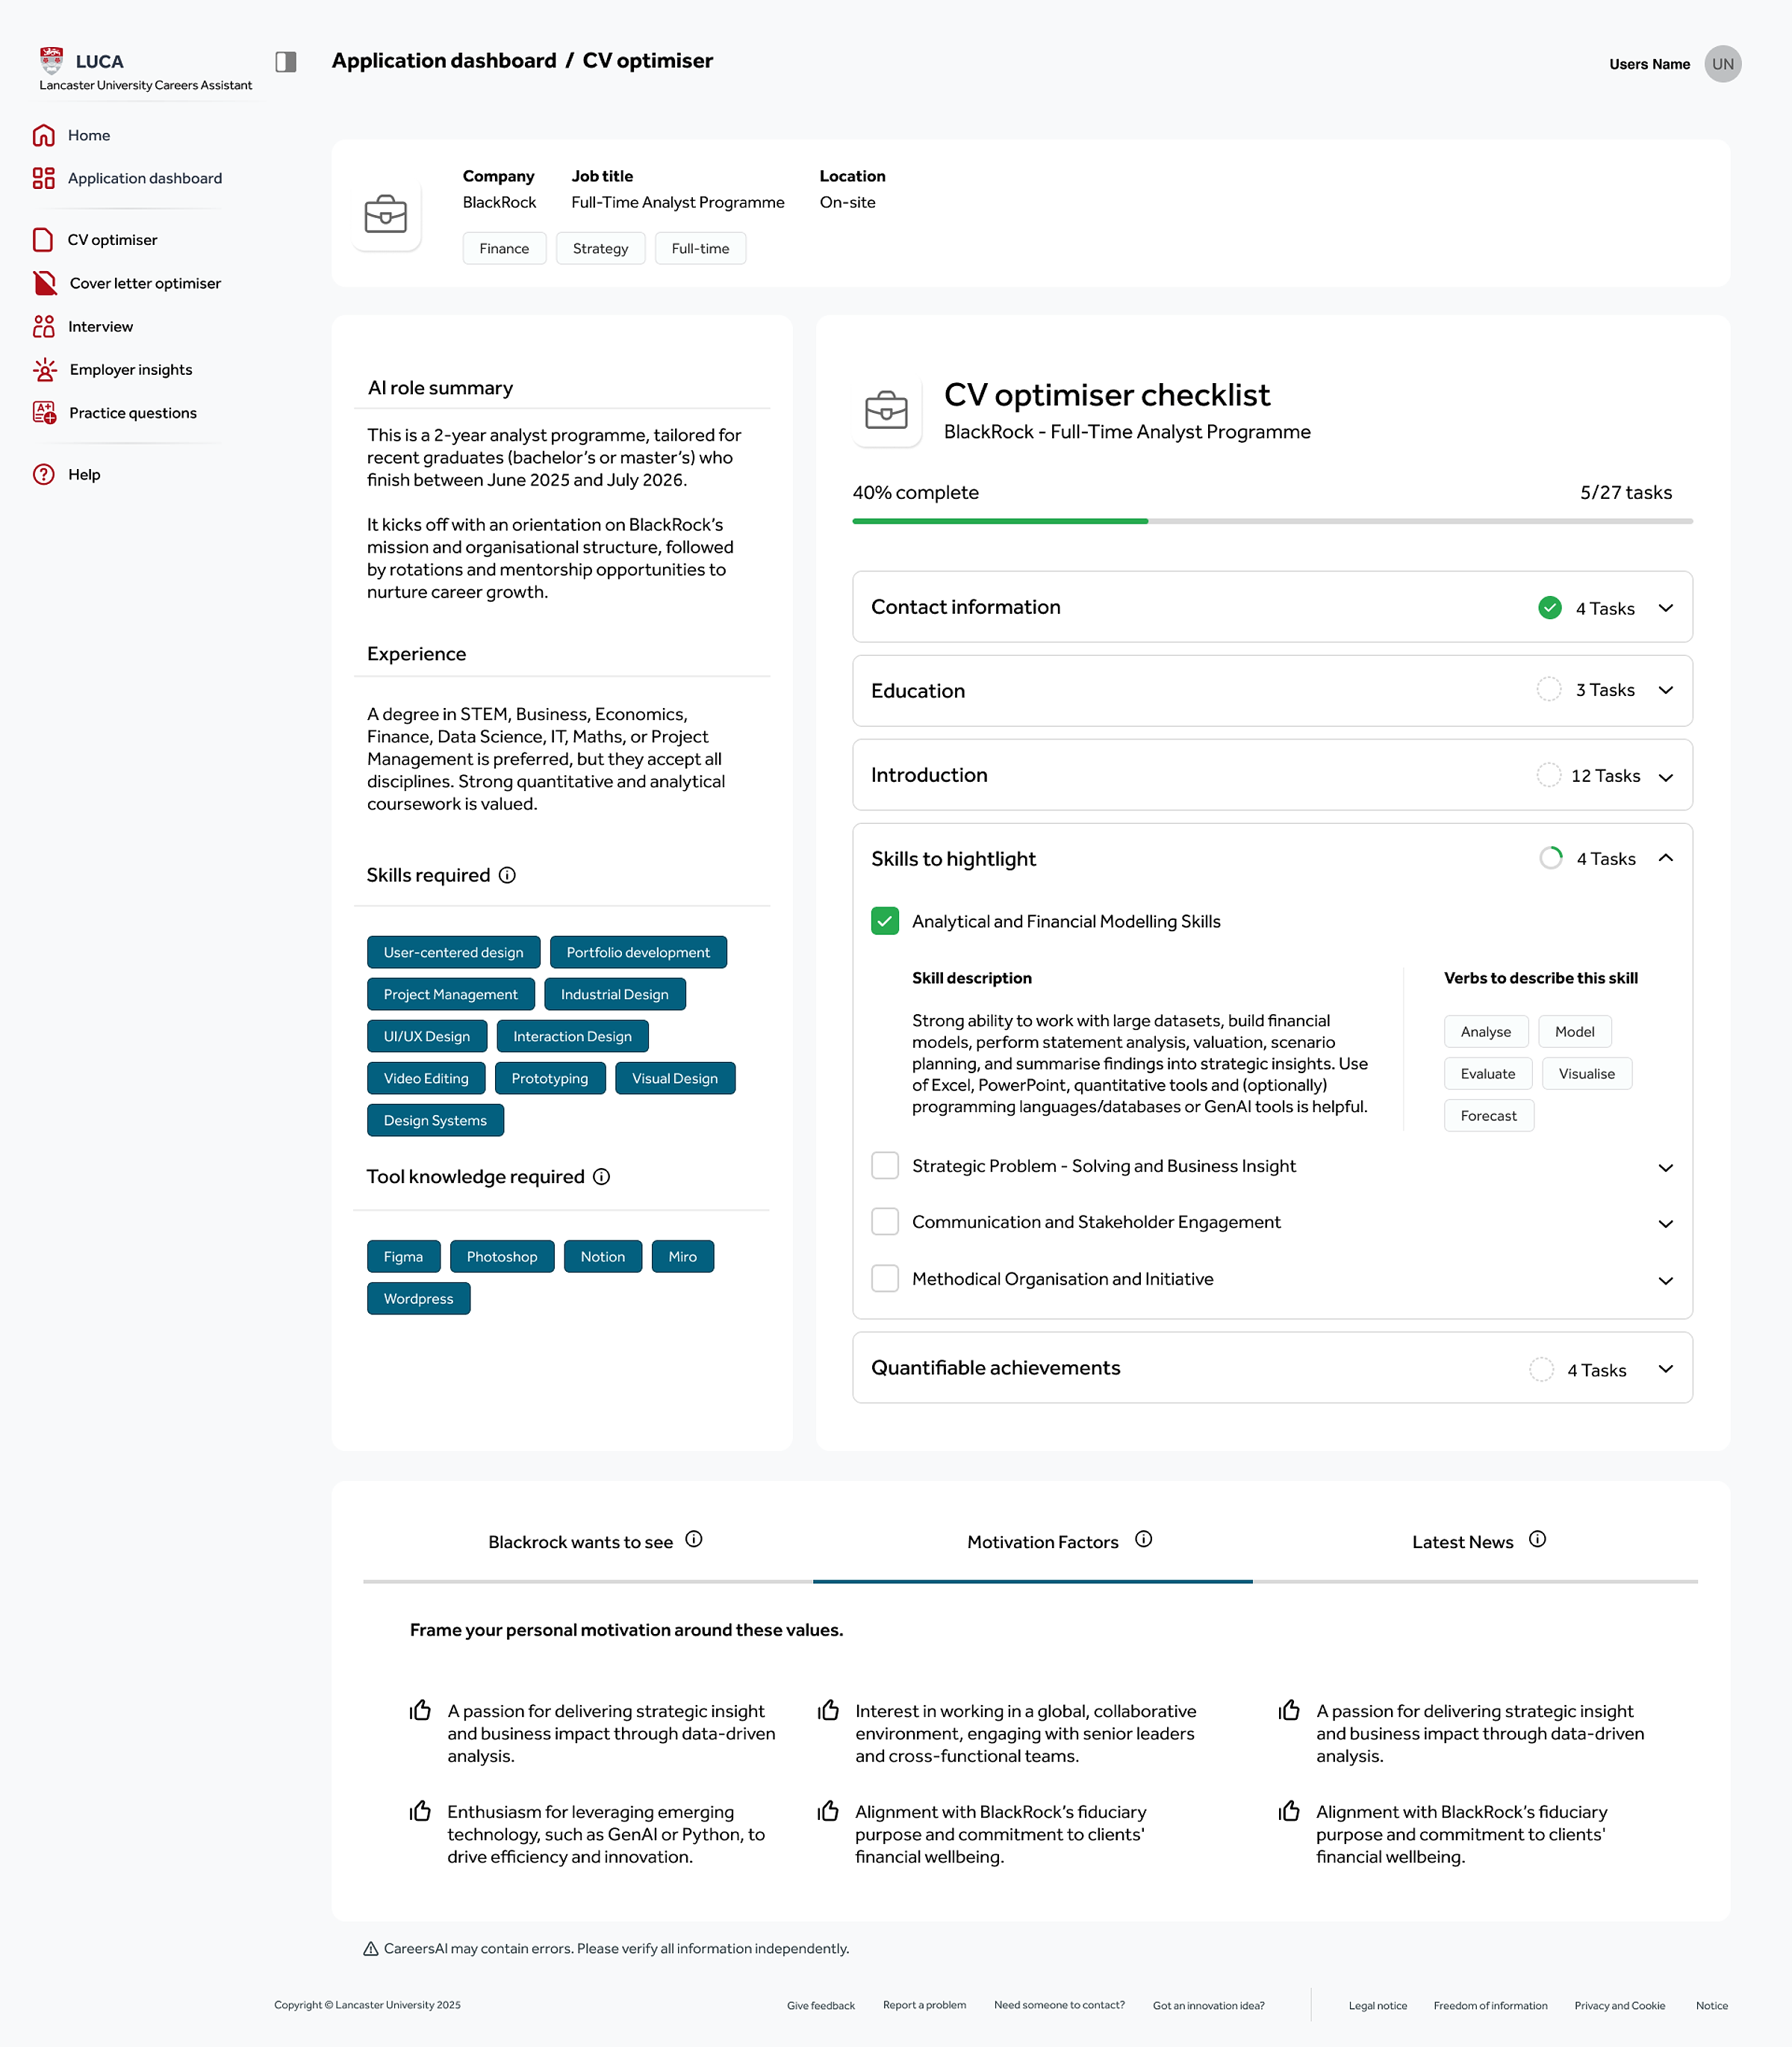
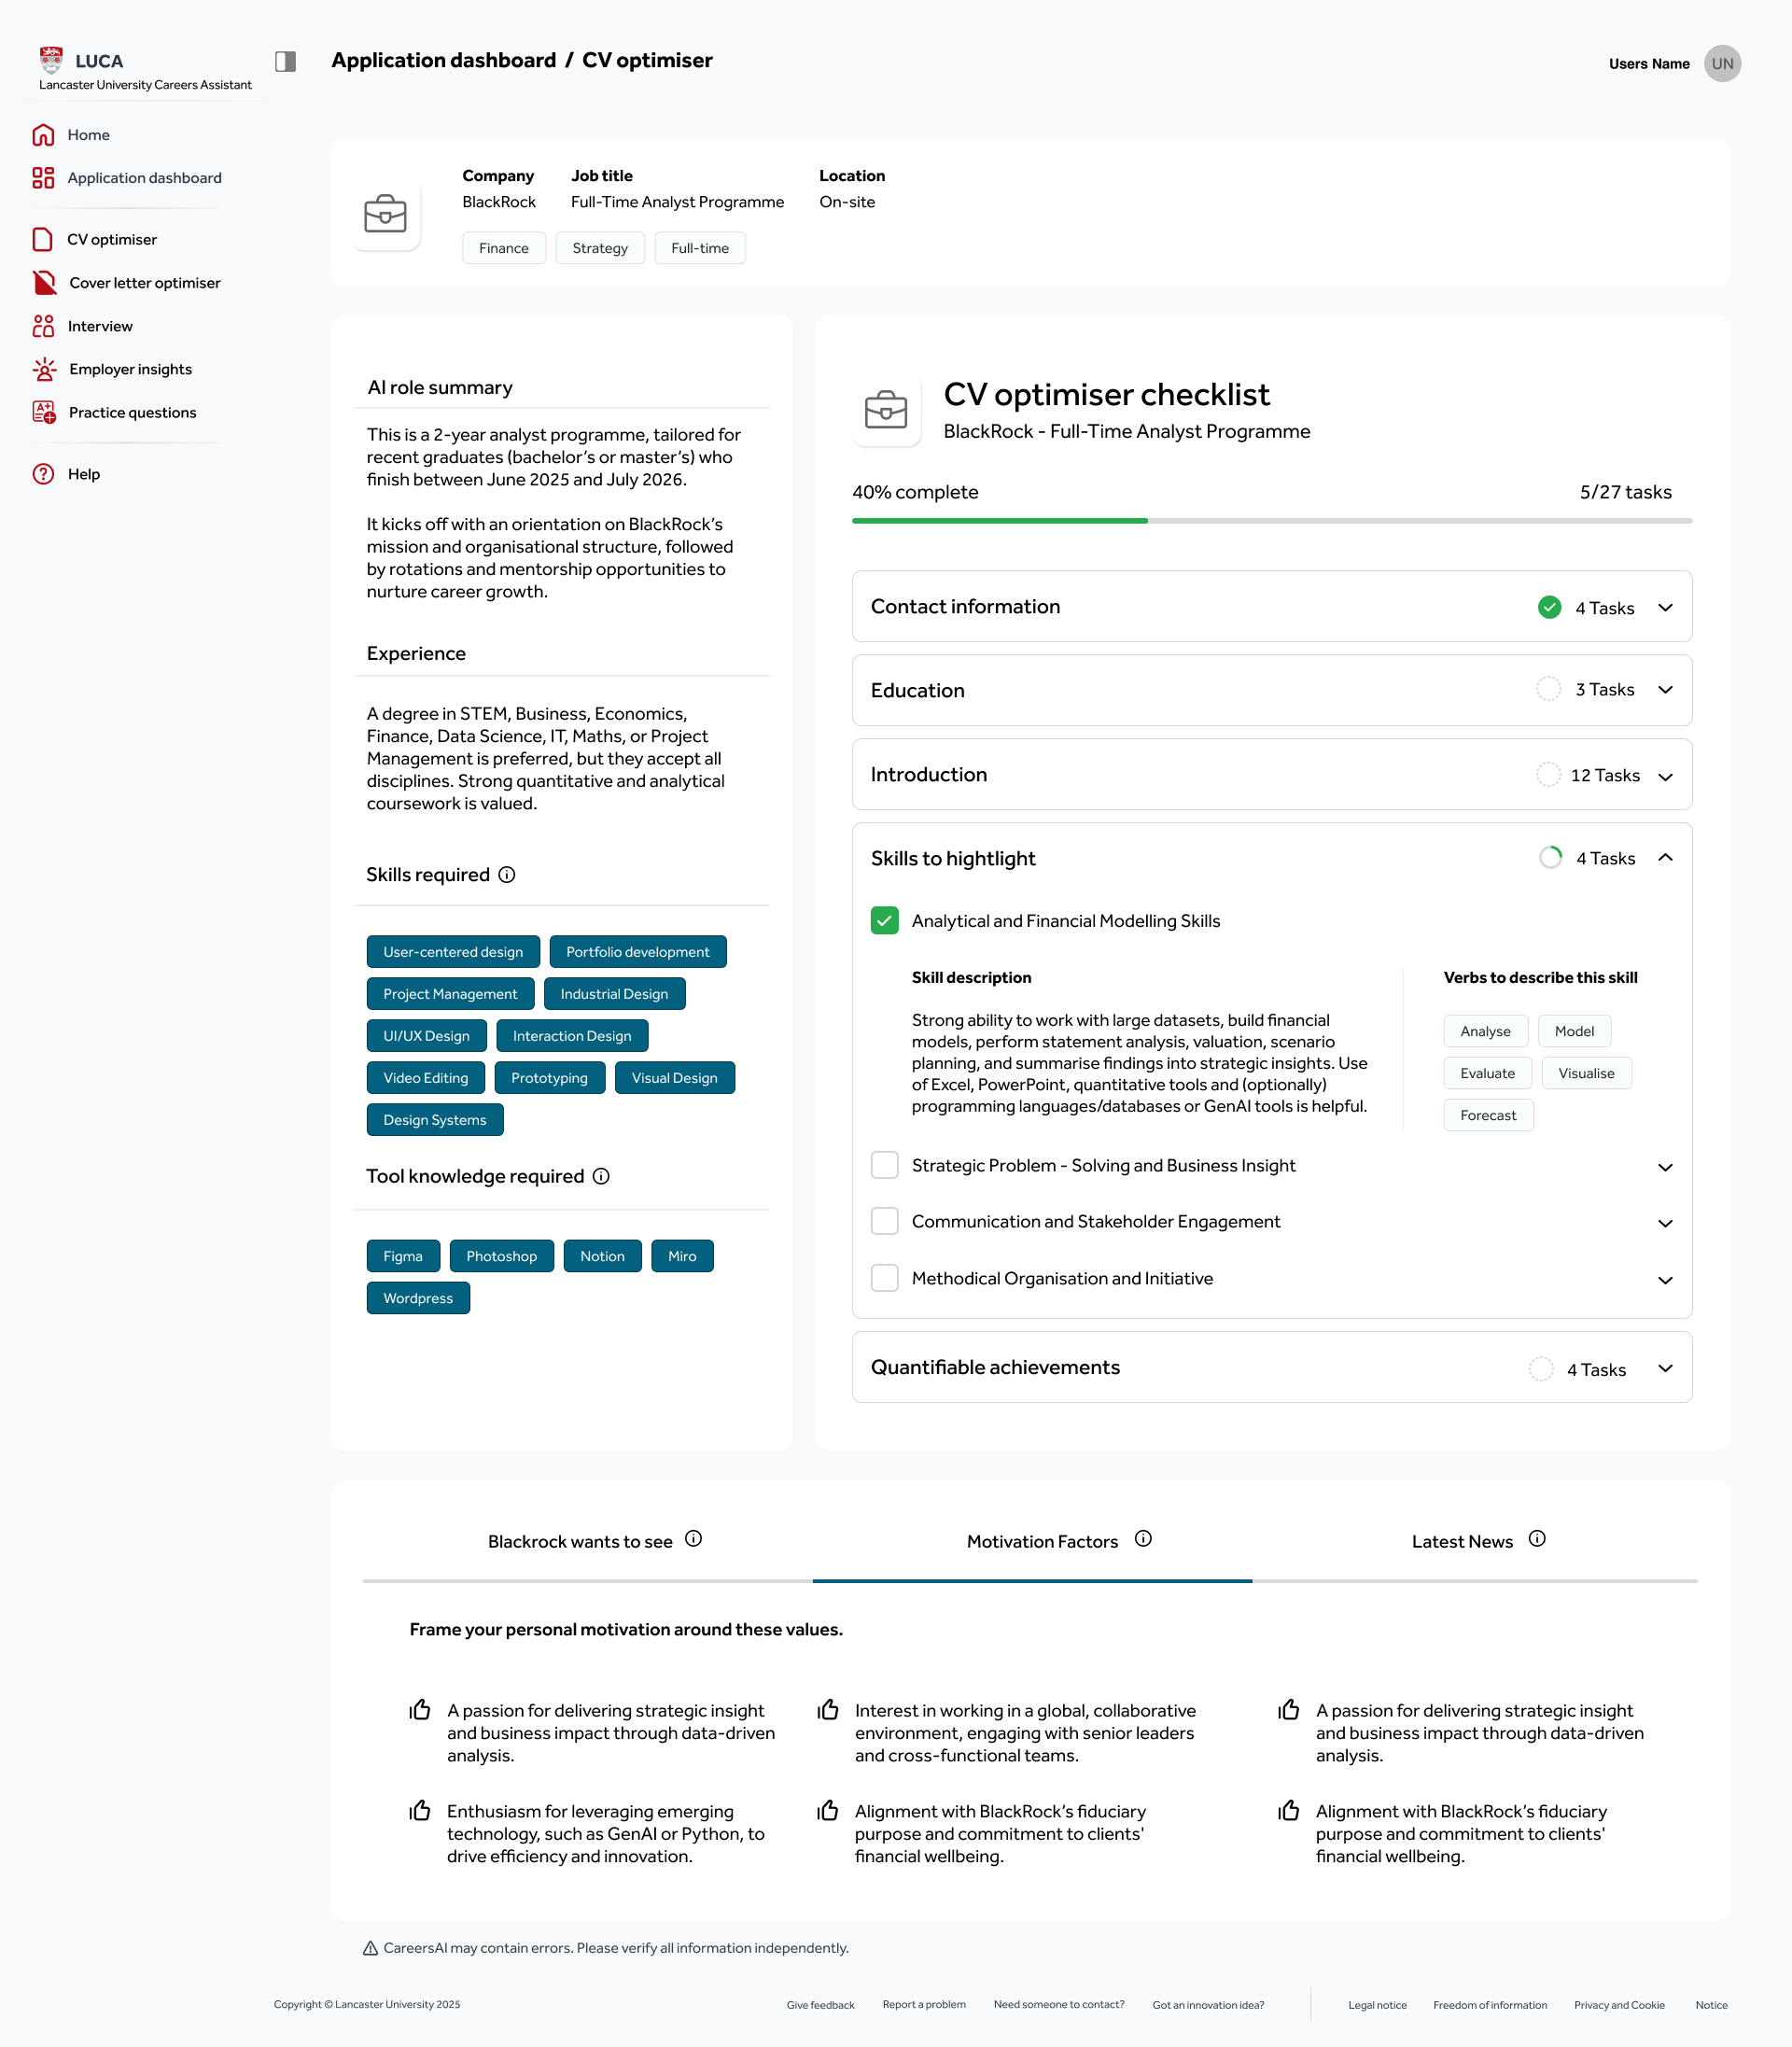
LUCA: replace AssetPlaceholders with real source screenshots
Replaced two AssetPlaceholder placeholders with actual SlideFigure images from FOLIO assets. Before/After now shows dashboard, iteration section now shows CV optimiser. Copied 9 source images to public assets.

diff --git a/app/work/luca/page.jsx b/app/work/luca/page.jsx
@@ -2,7 +2,7 @@
 
 import { motion } from 'framer-motion';
 import CaseStudyShell from '@/components/CaseStudyShell';
-import { Section, Prose, SubList, PullQuote, MetricCard, MetricGrid, HandNote, AssetPlaceholder } from '@/components/CaseBits';
+import { Section, Prose, SubList, PullQuote, MetricCard, MetricGrid, HandNote } from '@/components/CaseBits';
 import SlideFigure from '@/components/SlideFigure';
 import BrowserFrame from '@/components/BrowserFrame';
 
@@ -36,7 +36,11 @@ export default function LucaPage() {
           <Prose>
             I was the sole product designer on a cross-functional team building LUCA, an AI careers platform for Lancaster University. The human careers service was chronically oversubscribed, and the university’s existing tool, Smart Statement, only tailored CVs and cover letters. Students had quietly abandoned it because ChatGPT did more, and many were outsourcing entire applications to it.
           </Prose>
-          <AssetPlaceholder label="Before/After — Smart Statement's output generation vs LUCA's coaching flow" />
+          <SlideFigure
+            src="/assets/luca/dashboard-existing.png"
+            alt="LUCA's main dashboard for existing users"
+            caption="LUCA's coach-not-writer interface — every feature draws from the uploaded job description."
+          />
         </Section>
 
         <Section title="The careers problem surfaced in workshops that were never about careers" tone="sunken">
@@ -91,7 +95,11 @@ export default function LucaPage() {
           <Prose>
             We started with six functional areas and nineteen features, then pruned across five to six iteration rounds with students and careers staff in the loop. I would pitch a feature verbally, turn it into a quick prototype with AI tools like Google Stitch, and watch people use it. I used AI the same way LUCA uses it with students, as an assistant that accelerates, never a replacement that generates.
           </Prose>
-          <AssetPlaceholder label="Iteration collage — rapid prototypes across the 5–6 rounds, shrinking from 19 features to shipped v1" />
+          <SlideFigure
+            src="/assets/luca/cv-optimiser-3.png"
+            alt="CV Optimiser showing feedback and suggestions"
+            caption="Rapid prototype — features were tested, pruned, and reshaped across 5–6 rounds."
+          />
         </Section>
 
         <Section title="Usability testing exposed four trust gaps, and every fix shipped in v1">